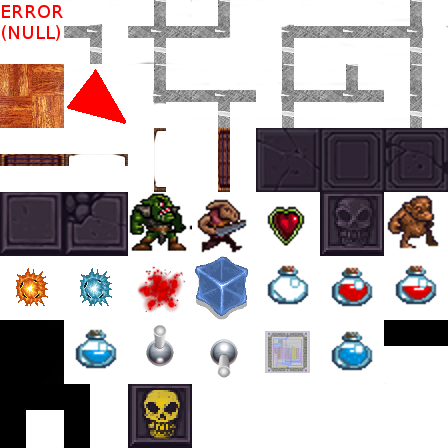
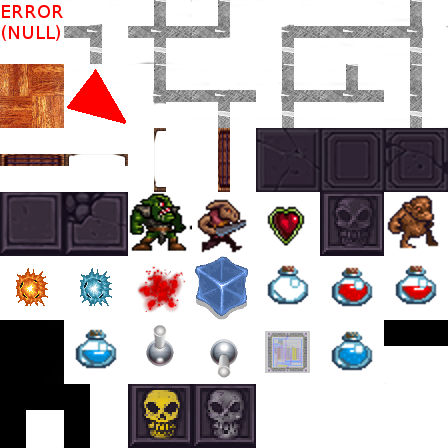
Silver skull

Changed region(s): [[0.4062, 0.8438, 0.5938, 1.0]]

diff --git a/src/MapLogic/map.cpp b/src/MapLogic/map.cpp
@@ -86,10 +86,10 @@ LoadedMap::LoadedMap(const char * path) {
 				new_field= new Field(IField::WALL);
 				break;
 			case 'k':
-				new_field= new Skull(true,false);
+				new_field= new Skull(true,true);
 				break;
 			case 'K':
-				new_field= new Skull(false,false);
+				new_field= new Skull(false,true);
 				break;
 			case '+':
 				new_field= new Field(IField::MEDKIT);
@@ -197,14 +197,14 @@ LoadedMap::LoadedMap(const char * path) {
 		if (command == "start") {
 			mapfile >> params->alpha >> params->start_hp >> params->start_mana;
 			printf("HIER\n");
-		} else if (command == "switch") {
+		} else if (command == "switch" || command=="controller") {
 			int sw_x;
 			int sw_y;
 			string direction;
 			int tar_x;
 			int tar_y;
 			mapfile >> sw_x >> sw_y >> direction >> tar_x >> tar_y;
-			Switch * sw = dynamic_cast <Switch*>(
+			ControllerField * sw = dynamic_cast <ControllerField*>(
 				GetFieldAt(sw_x, sw_y));
 			if (!sw) {assert(0);}
 			Field * tar = dynamic_cast <Field*>(

diff --git a/src/MapLogic/field.cpp b/src/MapLogic/field.cpp
@@ -33,7 +33,8 @@ void Field::EnsureFieldIdsInitialized()
 	assigned_field[DOOR_HORIZONTAL_CLOSED] = 14;
 	assigned_field[DOOR_HORIZONTAL_OPEN] = 15;
 	assigned_field[MEDKIT] = 25;
-	assigned_field[SILVER_SKULL] = 26;
+	assigned_field[INACTIVE_SKULL] = 26;
+	assigned_field[SILVER_SKULL] = 45;
 	assigned_field[GOLDEN_SKULL] = 44;
 	assigned_field[POWERUP] = 31;
 	assigned_field[SMALL_MANA_FLASK] = 36;

diff --git a/src/MapLogic/skull.cpp b/src/MapLogic/skull.cpp
@@ -19,6 +19,8 @@ void Skull::SteppedOver(Character * who)
 {
 	if (IsGolden()) {
 		doskey_active++;
+	} else {
+		ActivateRemotes();
 	}
 	globalAudios[BUTTON_ON].res.sound->play();
 	//someone_is_here=who;
@@ -28,6 +30,8 @@ void Skull::LeftField()
 {
 	if (IsGolden()) {
 		doskey_active--;
+	} else {
+		DeactivateRemotes();
 	}
 	globalAudios[BUTTON_OFF].res.sound->play();
 	//someone_is_here=0;

diff --git a/src/MapLogic/switch.cpp b/src/MapLogic/switch.cpp
@@ -28,9 +28,9 @@ void Switch::SteppedOver(Character * who) {
 
 	if (associated_field) {
 		if (on_up ^ Up() )
-			associated_field->Deactivate();
+			ActivateRemotes();
 		else
-			associated_field->Activate();
+			DeactivateRemotes();
 	}
 	/* update the state machine */
 	Field::SteppedOver(who);

diff --git a/src/MapLogic/controller_field.cpp b/src/MapLogic/controller_field.cpp
@@ -1,0 +1,13 @@
+#include "field.h"
+#include "field_impl.h"
+#include "controller_field.h"
+
+
+void ControllerField::ActivateRemotes()
+{
+	associated_field->Activate();		
+}
+void ControllerField::DeactivateRemotes()
+{
+	associated_field->Deactivate();
+}

diff --git a/src/MapLogic/field.h b/src/MapLogic/field.h
@@ -32,6 +32,7 @@ public:
 		MEDKIT,
 		GOLDEN_SKULL, /* dos computer that opens doors */
 		SILVER_SKULL,
+		INACTIVE_SKULL,
 		POWERUP,
 		SMALL_MANA_FLASK,
 		LARGE_MANA_FLASK,
